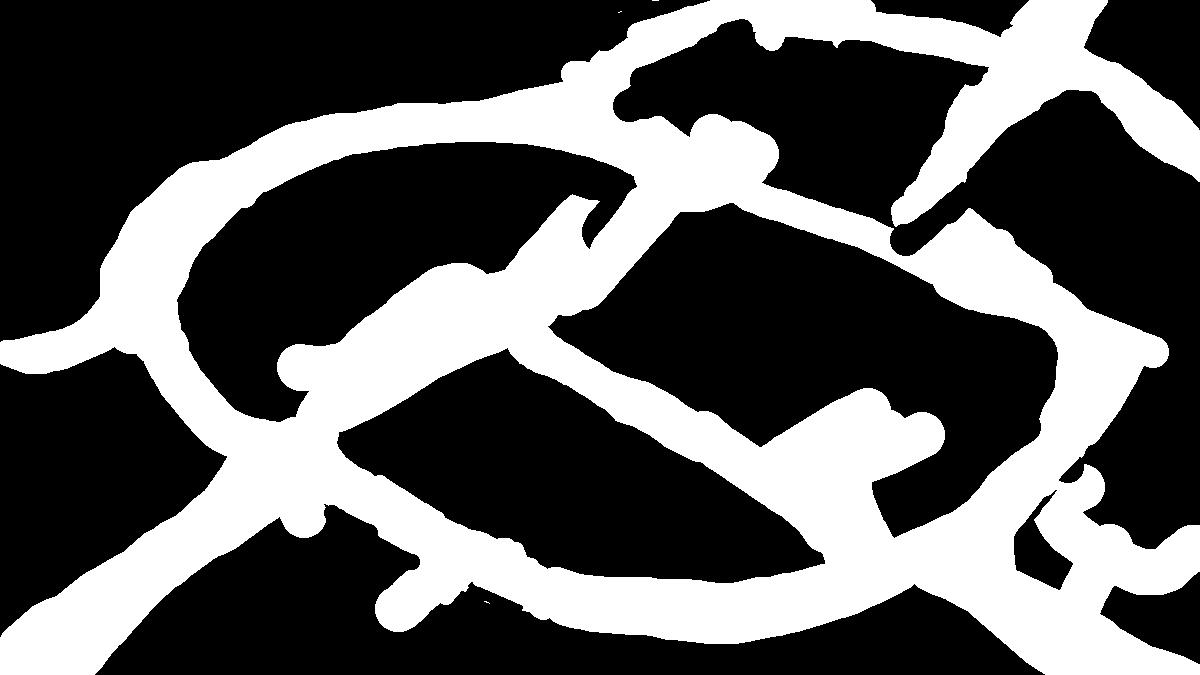
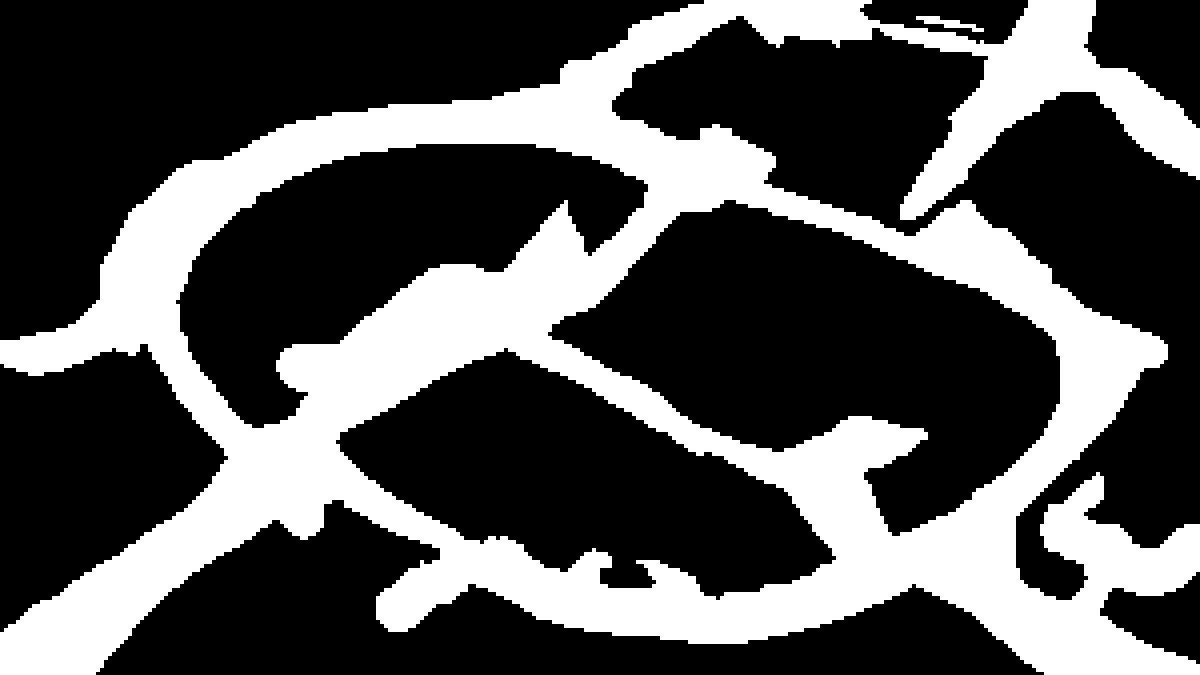
Vila de teste: máscara de colisão editada pelo usuário fixa no jogo
- Máscara colada do editor (300x169) vira a grade de colisão do jogo e a máscara padrão do editor
- Vale em qualquer aparelho, não só no que fez a edição

Claude-Session: https://claude.ai/code/session_01CGVLTDGSSxihYWLuUwRgVi

diff --git a/confusion/web/teste-quarteirao/vila.js b/confusion/web/teste-quarteirao/vila.js
@@ -95,7 +95,7 @@ caixa(LARG / 2, 80, -ALT / 2 - 2, ALT / 2 + 2);    // leste
 
 // obstáculos pintados na imagem: grade de células de 8 px (172 x 96) desenhada no editor de colisão
 // (confusion/web/teste-quarteirao/editor-colisao.html). Cada célula 1 bloqueia. A grade vira retângulos (caixasDaGrade).
-const COLISAO = { celula: 8, colunas: 344, linhas: 192, rle: "0,203,47,45,23,225,52,43,23,223,55,42,23,221,59,40,24,217,71,31,24,215,85,19,24,213,26,6,61,14,24,211,25,10,63,11,23,211,26,10,66,6,25,211,24,13,67,3,25,212,23,13,96,211,22,16,8,9,78,209,23,17,7,15,2,11,59,209,21,22,5,31,56,207,21,26,1,36,54,203,22,72,49,200,20,81,45,192,4,1,19,87,43,188,23,94,43,183,22,100,40,182,20,102,41,181,20,101,44,179,20,101,46,176,21,100,48,170,26,95,54,164,30,96,55,159,32,97,29,10,18,154,35,97,29,12,19,148,38,98,27,14,21,122,12,2,48,97,26,17,21,117,66,96,26,19,21,111,71,96,26,21,20,100,81,27,2,67,24,24,20,95,86,10,3,11,7,63,23,26,21,90,92,3,10,8,12,59,21,29,21,85,110,6,16,56,20,31,21,81,114,4,18,55,18,33,22,78,118,2,20,53,17,35,21,76,121,1,23,49,17,37,20,74,148,48,16,39,19,73,149,46,17,41,18,71,49,33,70,45,16,43,17,69,43,46,65,44,16,45,16,67,38,58,60,44,15,48,14,65,34,69,55,43,15,50,13,63,34,74,52,43,15,52,11,54,40,80,49,42,15,55,9,52,39,85,46,42,15,58,7,51,38,90,42,43,14,61,5,50,37,94,39,43,14,64,3,48,36,98,38,43,14,65,2,47,35,100,37,43,15,66,1,46,35,101,38,41,14,114,34,103,40,38,14,114,33,104,46,32,14,114,32,89,1,15,49,30,12,115,32,89,5,11,53,26,12,115,32,88,11,7,56,21,13,114,33,88,11,7,29,4,27,18,12,114,31,90,11,7,28,8,29,13,12,10,2,102,31,91,10,8,18,20,30,10,10,12,3,101,30,91,11,7,18,23,31,8,8,12,5,99,30,91,11,7,18,27,31,5,6,13,7,98,29,91,12,6,19,31,29,3,5,12,11,95,29,91,12,6,19,35,28,16,14,94,28,91,13,5,19,39,26,14,18,90,28,91,14,5,18,43,23,13,21,88,28,90,15,4,18,47,19,13,22,87,27,91,16,3,18,51,16,12,24,86,26,91,18,2,17,56,12,11,25,85,26,91,37,60,10,8,28,83,26,92,36,63,9,6,31,81,26,91,36,66,8,4,33,79,26,91,37,69,44,77,26,90,37,72,43,75,26,72,8,11,36,75,43,73,26,69,14,7,36,77,43,72,25,68,17,3,38,81,41,71,25,67,58,83,40,71,25,65,59,86,38,71,24,65,59,89,36,71,24,64,60,91,36,69,23,63,61,92,38,67,23,62,61,94,38,66,22,61,62,96,39,63,23,60,62,99,38,61,24,59,62,102,36,60,25,58,61,106,35,58,26,57,59,113,33,56,26,55,59,119,32,51,28,54,55,130,28,48,30,52,55,134,28,43,32,50,56,138,28,38,34,49,57,141,27,32,39,47,59,141,28,25,44,46,60,142,30,18,49,44,63,141,31,11,54,43,65,140,32,10,54,29,81,139,32,9,32,2,20,28,63,1,20,137,32,9,30,6,19,26,62,3,21,136,32,9,28,12,15,25,60,7,22,134,32,9,25,16,15,24,57,11,23,132,32,9,23,18,16,22,56,14,23,131,31,12,18,22,15,22,54,18,23,129,25,1,3,17,12,25,16,22,50,23,22,128,24,25,5,30,16,21,48,27,23,125,24,60,16,21,46,32,23,122,23,62,16,21,44,35,25,118,23,63,16,21,41,39,25,115,23,64,17,21,38,43,25,59,2,52,23,65,17,25,32,45,26,54,7,50,22,66,18,24,30,49,26,50,11,47,23,67,18,22,30,52,26,46,14,46,22,69,17,21,29,55,26,43,16,45,22,71,17,20,27,58,26,40,18,44,23,72,18,18,26,61,26,36,21,43,22,74,18,16,25,64,30,30,24,5,3,33,22,74,21,13,23,67,31,26,27,1,8,30,22,76,25,5,24,70,31,23,39,29,21,78,51,75,29,21,41,28,20,80,48,80,27,18,44,27,20,81,44,84,28,15,45,27,19,83,41,89,27,11,47,27,18,85,40,90,27,8,49,26,18,87,39,92,26,6,50,25,19,88,38,93,27,2,51,25,18,91,37,94,79,23,19,94,36,95,76,23,19,97,35,96,73,22,21,98,35,97,69,23,20,99,37,99,64,24,20,100,38,100,60,25,20,4,2,94,41,100,55,26,21,5,3,92,44,99,53,26,21,5,5,91,48,97,48,28,21,6,6,89,51,96,44,30,22,5,7,88,53,97,40,32,35,87,55,96,39,31,36,86,57,97,37,30,37,85,60,96,36,29,37,84,63,97,35,27,21,3,14,83,66,96,34,26,22,2,15,82,69,96,33,24,22,2,15,82,40,4,27,96,32,23,22,2,14,83,41,6,27,96,30,21,23,2,13,84,42,8,26,96,30,18,25,2,13,82,44,10,25,97,28,16,26,2,15,79,31,3,12,12,25,96,28,13,27,3,17,75,32,4,12,14,26,94,27,11,28,4,24,19,4,44,31,7,10,16,27,93,27,7,30,6,24,16,6,42,32,9,9,16,31,90,26,5,32,6,25,14,7,41,32,12,5,19,32,89,26,1,34,8,25,12,8,39,32,39,37,84,60,9,24,10,10,38,32,42,37,82,60,10,24,8,11,37,32,45,36,82,59,10,26,5,12,36,31,49,34,84,57,11,42,34,31,53,33,85,55,13,40,33,29,58,32,84,55,14,39,31,30,59,34,82,55,16,37,29,31,60,35,81,55,16,37,27,31,62,37,1,3,71,59,16,37,26,31,60,47,64,64,15,37,24,31,61,52,55,71,12,37,24,31,60,74,28,80,9,37,23,32,60,90,9,87,6,36,23,32,60,22,2,165,4,35,23,31,61,23,4,123,3,39,1,15,2,17,24,31,61,22,9,118,7,52,6,12,24,32,61,22,12,114,11,50,40,33,61,22,15,110,16,46,38,35,62,22,18,105,20,44,36,36,62,18,25,100,25,41,36,36,63,17,26,98,29,39,35,36,65,15,29,94,32,38,34,36,66,14,31,90,36,38,32,36,67,13,37,82,40,39,29,36,69,11,40,76,45,39,26,37,71,9,44,70,50,38,24,37,74,4,52,62,54,39,22,36,142,46,60,39,20,37,152,31,66,40,18,36,161,18,72,41,16,34,255,40,15,34,256,42,12,33,258,45,8,32,260,47,5,31,262,48,3,30,264,49,1,30,266,77,268,75,271,45" };
+const COLISAO = { celula: 8, colunas: 344, linhas: 192, rle: "0,202,48,45,19,227,51,47,19,225,52,47,20,220,58,46,20,220,58,46,20,217,24,2,36,14,6,23,21,214,26,5,38,13,10,16,22,212,25,10,43,12,9,11,22,211,24,13,33,2,14,13,3,8,23,211,23,15,32,3,21,16,22,212,21,18,6,4,21,6,21,12,23,210,22,20,5,14,2,19,20,1,1,6,24,209,21,24,2,16,1,24,46,210,21,24,2,16,1,24,46,207,22,73,43,203,22,86,34,201,20,93,31,193,25,94,32,192,23,97,33,190,21,100,41,182,20,101,44,179,20,101,44,179,20,101,45,178,20,100,47,171,26,100,48,164,30,101,51,157,34,101,25,10,19,152,36,100,26,12,19,140,45,101,23,16,22,137,45,101,23,16,22,118,64,100,23,18,22,111,70,99,24,21,20,100,82,96,23,24,19,96,87,94,22,26,21,88,100,88,18,30,21,83,105,18,2,67,17,32,21,80,110,12,9,63,15,34,22,77,113,11,9,62,15,36,21,77,113,11,9,62,15,36,21,75,119,7,11,60,14,39,19,72,142,57,15,40,18,71,48,35,63,54,13,43,17,69,42,48,60,49,15,45,16,67,36,61,57,46,15,48,14,64,35,71,52,45,14,50,13,55,40,77,50,44,14,54,10,55,40,77,50,44,14,54,10,53,39,83,47,43,14,57,8,50,39,89,43,44,12,61,6,49,38,92,41,44,13,64,3,48,36,98,38,43,14,66,1,47,34,104,34,44,13,114,34,106,35,40,13,115,33,108,39,36,12,116,33,108,39,36,12,115,31,110,43,32,12,114,31,112,47,27,12,114,32,89,1,22,23,3,24,24,9,7,4,104,33,89,2,22,21,8,25,19,9,7,6,102,31,90,4,19,22,16,22,16,8,5,9,101,31,90,5,18,14,26,24,13,7,4,12,100,30,90,7,16,14,32,24,8,5,5,14,98,29,91,8,16,13,37,22,15,16,97,29,91,8,16,13,37,22,15,16,97,28,91,10,14,12,43,19,13,18,94,29,92,10,13,12,49,18,7,25,89,28,92,12,11,12,53,17,4,27,87,28,92,14,8,13,56,47,86,27,91,16,6,15,60,44,84,26,92,17,5,15,63,44,82,25,92,18,4,15,66,43,81,25,92,18,4,15,66,43,80,26,91,21,1,15,70,40,79,26,92,35,74,40,77,25,92,35,78,38,75,26,71,10,10,35,82,37,73,26,68,16,5,36,85,37,71,25,68,58,87,35,71,25,65,60,92,31,71,25,65,60,92,31,71,25,64,60,96,28,71,24,64,60,100,27,69,24,62,60,106,25,67,23,62,60,109,24,66,23,60,61,111,24,64,22,61,61,115,23,60,26,58,61,117,23,58,27,56,61,121,23,56,27,56,61,121,23,55,28,55,58,127,23,52,29,52,58,133,24,47,30,51,58,135,25,42,33,50,56,139,28,35,36,49,57,141,28,27,43,47,57,143,30,20,48,45,59,144,31,17,48,45,59,144,31,11,54,43,65,141,31,10,40,2,12,30,80,139,32,9,32,1,7,2,12,27,63,2,20,137,32,9,29,8,2,5,11,25,62,6,19,136,32,9,26,18,11,25,59,10,21,134,31,9,24,21,11,23,56,18,19,132,30,11,20,25,11,22,54,22,18,131,29,12,20,25,11,22,54,22,18,131,29,16,13,28,11,22,52,26,18,129,24,24,5,34,11,22,48,33,17,126,23,65,12,20,46,37,18,123,23,65,13,20,43,41,18,121,22,67,13,21,40,44,19,118,22,67,13,23,35,50,17,117,21,69,13,25,31,52,18,115,19,71,14,23,30,56,17,114,19,71,14,23,30,56,17,114,19,73,13,21,29,59,17,113,18,75,12,21,28,63,16,110,19,76,13,18,26,68,15,109,18,78,13,17,24,72,14,107,18,79,14,14,24,75,15,46,7,52,18,80,14,10,24,81,13,43,14,45,19,82,15,4,26,84,15,39,18,42,18,83,15,4,26,84,15,39,18,42,18,84,42,88,16,35,26,34,17,88,37,94,15,30,30,33,16,90,36,96,17,23,33,32,16,92,34,98,18,18,34,33,16,94,34,99,21,11,35,33,16,96,33,100,24,4,36,34,16,97,35,101,2,2,56,34,16,98,35,101,2,2,56,34,16,99,35,108,49,35,18,98,37,108,47,35,16,100,39,109,42,37,16,101,40,110,36,40,16,101,42,110,34,40,16,10,1,90,44,112,31,38,17,10,3,89,47,111,30,35,18,9,5,88,49,113,28,32,18,10,6,88,49,113,28,32,18,10,6,86,52,115,25,30,19,9,8,85,55,114,24,29,19,9,9,84,58,113,24,28,18,9,10,83,40,4,17,111,24,25,20,9,10,83,39,6,19,110,23,24,20,5,14,83,40,8,18,110,23,22,20,6,12,82,43,10,19,107,23,20,20,7,12,83,43,10,19,107,23,20,20,7,12,82,44,12,19,106,23,15,23,8,13,79,31,2,13,14,19,106,21,13,25,8,15,75,32,4,12,16,19,105,22,9,27,7,23,18,5,44,31,8,9,19,20,102,22,6,30,7,24,15,7,41,32,11,7,23,18,102,22,2,33,7,25,13,8,40,32,14,2,29,16,7,2,1,3,89,56,8,26,10,9,39,31,50,18,1,9,88,55,8,26,9,10,39,31,50,18,1,9,88,55,8,26,9,10,37,32,55,26,87,54,8,28,6,11,36,31,59,24,20,1,68,52,9,44,34,30,62,25,16,7,65,52,13,40,32,30,64,27,13,9,65,51,14,39,30,31,59,2,2,31,10,10,7,7,50,52,17,36,28,30,62,36,8,11,10,6,44,56,20,33,26,31,60,44,2,9,14,9,39,58,19,33,24,31,61,56,14,11,36,59,19,32,25,31,61,56,14,11,36,59,19,32,24,31,61,57,15,13,29,63,20,30,23,32,61,58,16,12,27,67,17,30,22,33,60,22,2,38,13,14,18,42,2,32,16,28,23,31,61,24,6,61,17,42,5,33,12,9,3,15,24,31,61,23,10,60,6,50,9,32,9,10,8,8,25,32,61,23,13,61,1,50,13,34,4,11,37,35,62,22,17,106,19,44,39,35,62,22,17,106,19,44,37,36,63,17,24,101,24,42,36,36,64,16,26,98,28,39,36,35,66,15,30,92,34,36,35,35,67,14,32,88,38,38,31,35,69,11,38,81,42,38,27,37,71,9,43,73,47,38,25,37,73,6,50,63,53,39,23,37,73,6,50,63,53,39,22,38,137,51,58,41,19,37,152,31,66,40,18,36,161,17,74,40,16,34,255,41,14,33,257,44,10,32,259,46,7,31,261,49,3,30,264,49,1,30,264,49,1,30,266,77,268,75,271,45" };
 // RLE: contagens alternadas de células livres e bloqueadas, começando por livre
 function decodificarGrade({ rle, colunas, linhas }) {
   const grade = new Uint8Array(colunas * linhas);
